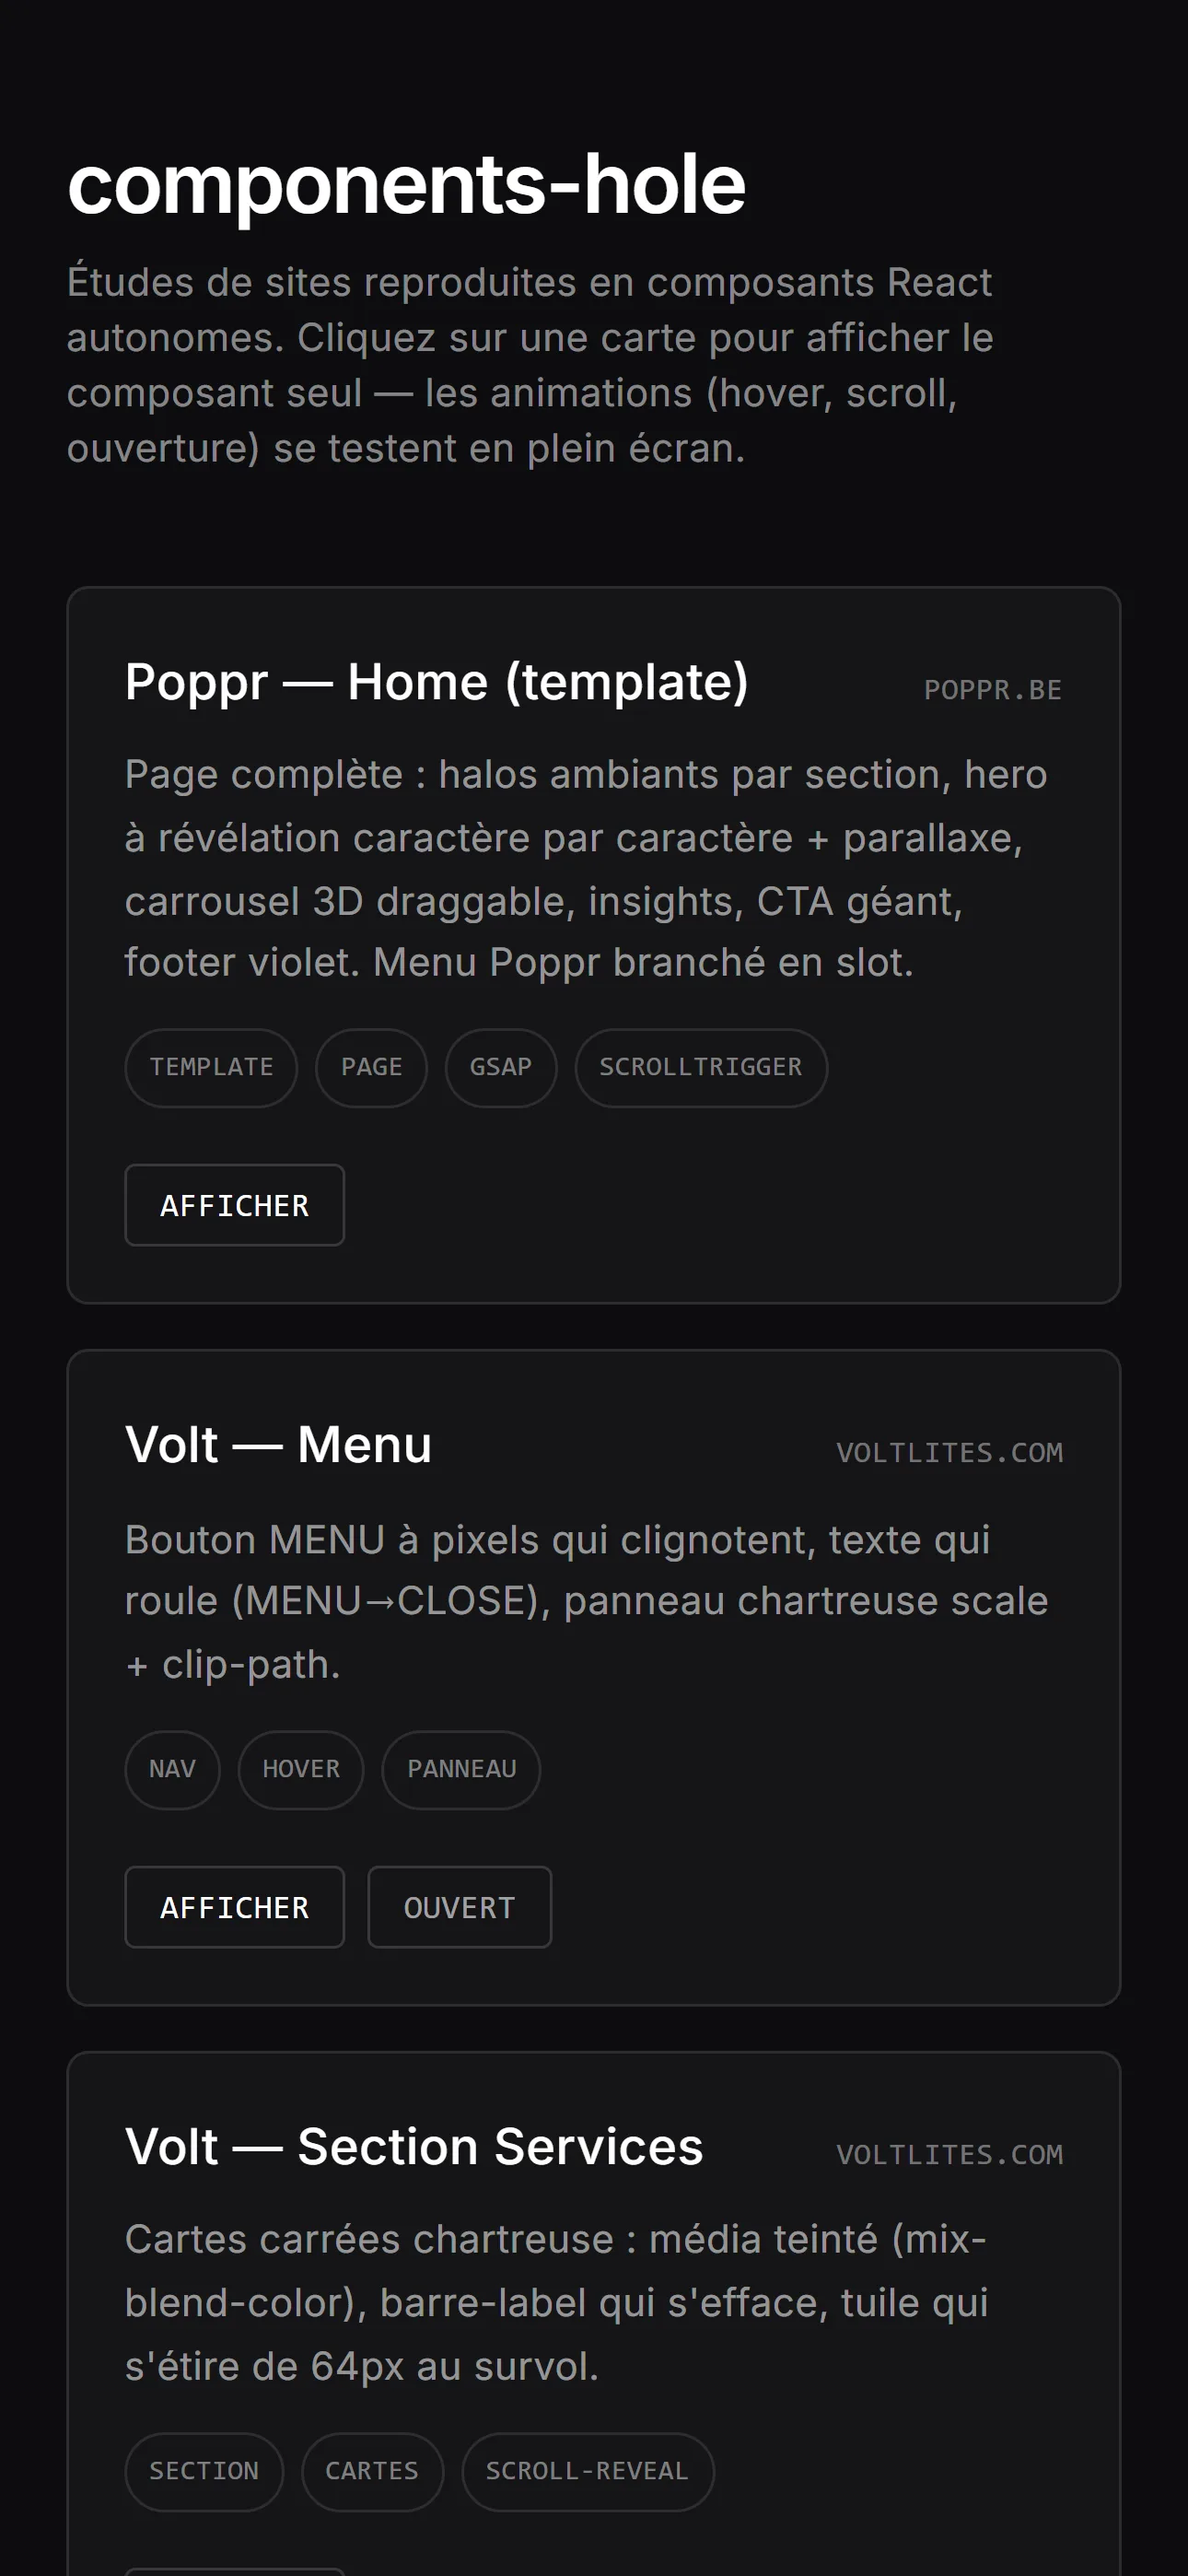
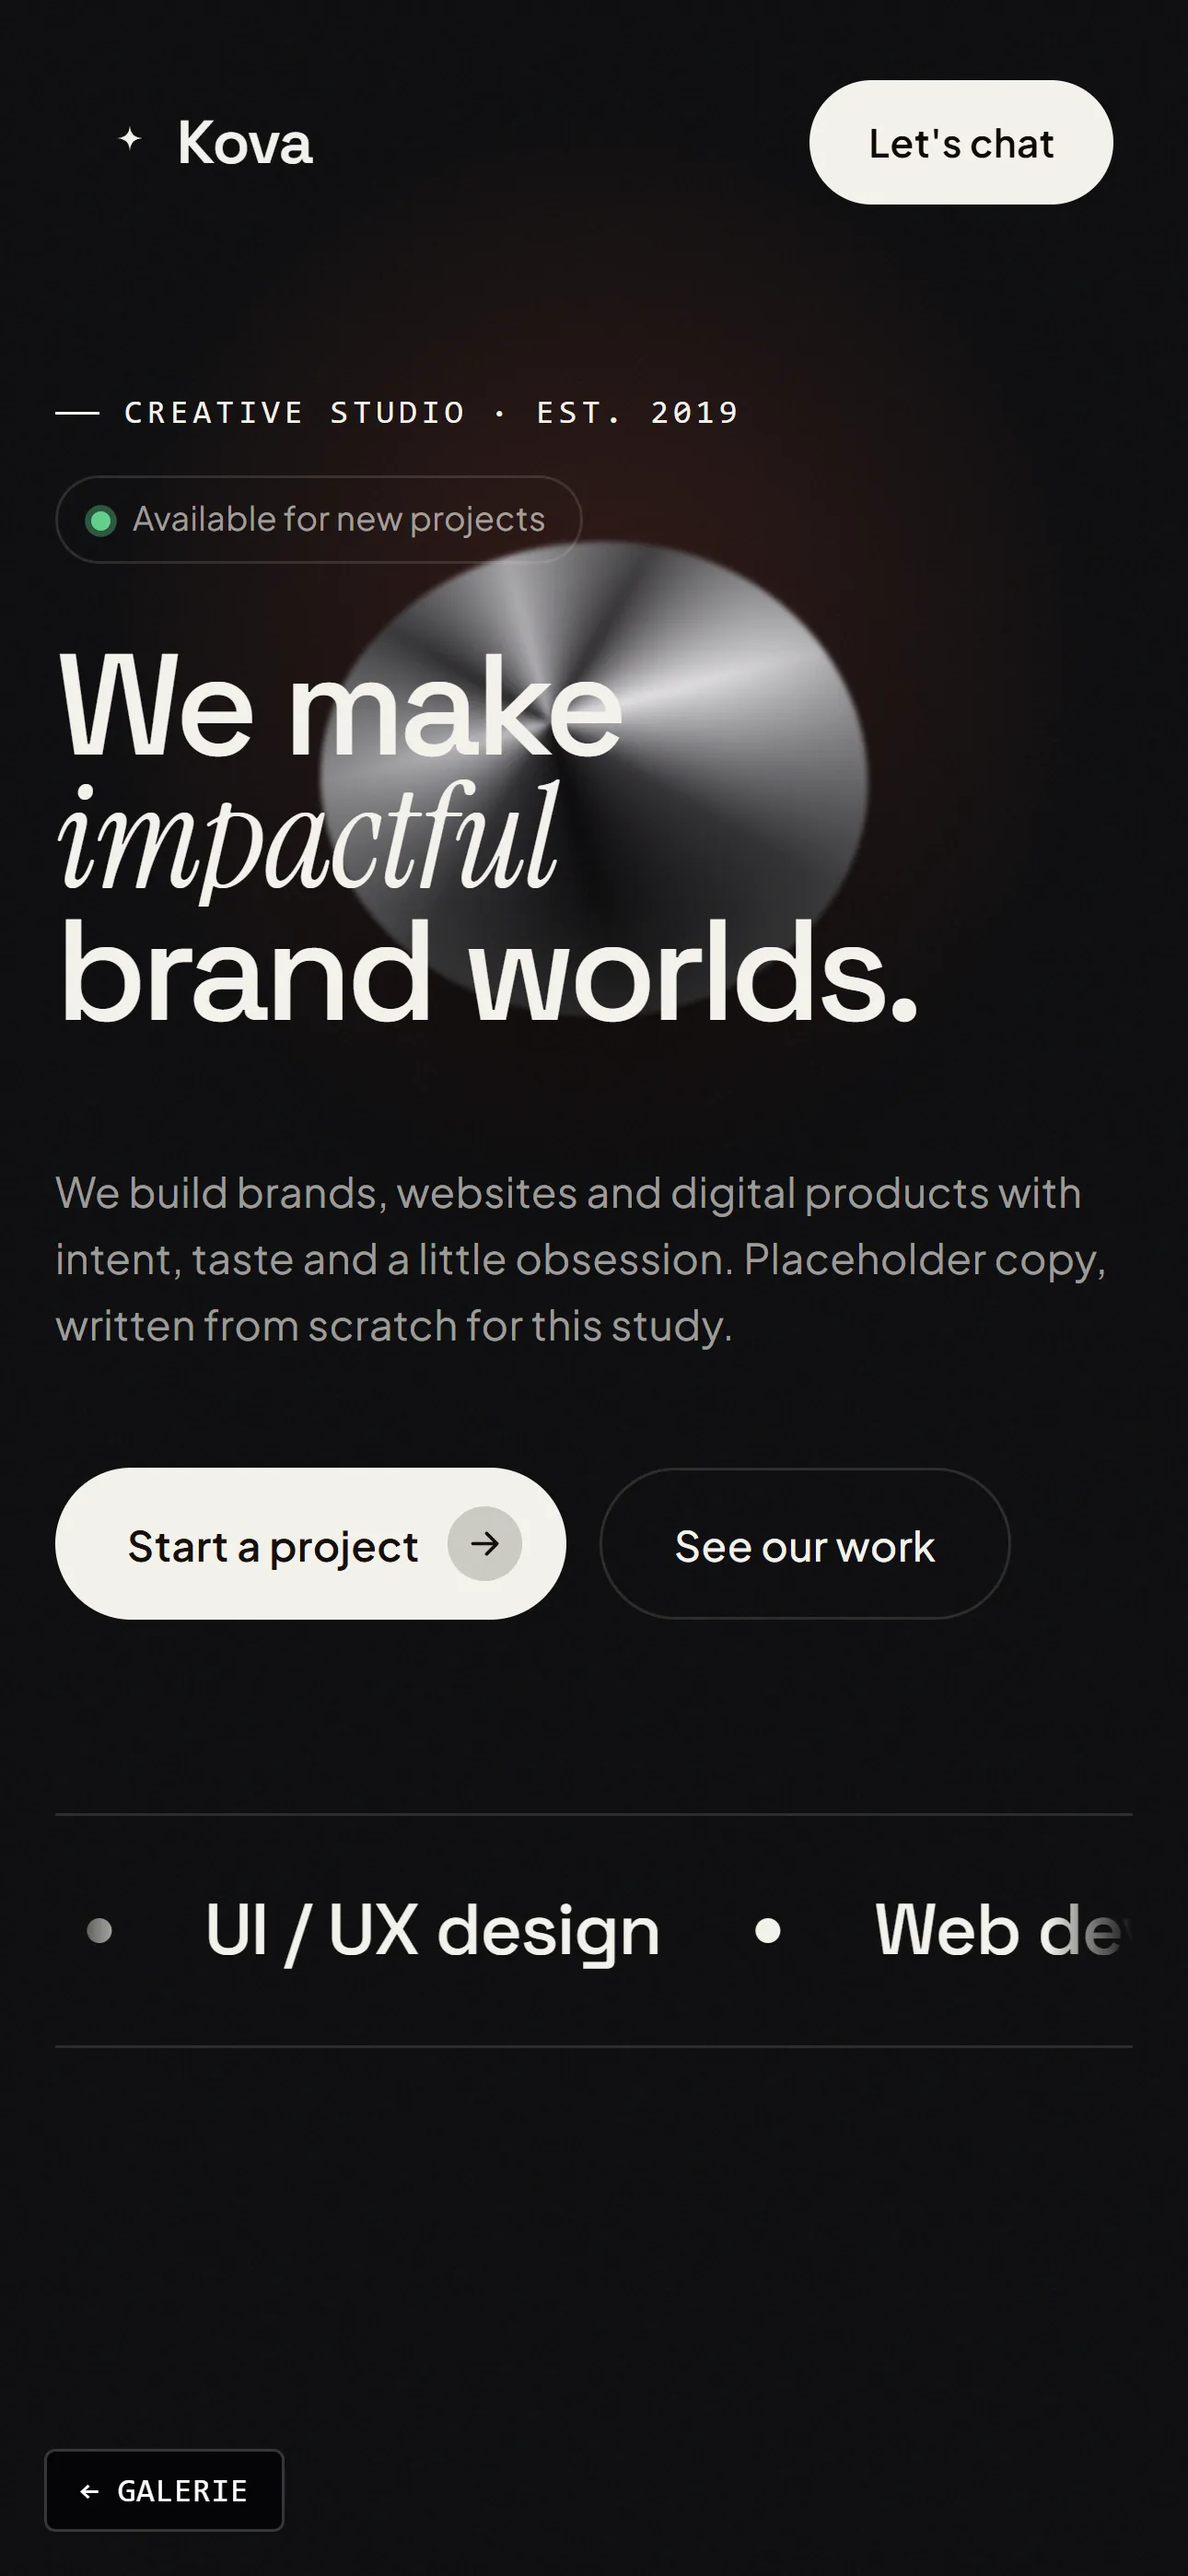
feat(projets): liens seulement pour Efreeshop et MEDICASTOCK, components-hole montré en entier
- 16 captures de components-hole (galerie, 12 templates, composants) tirées du dossier local
- description : plus de 300 composants et 12 templates

diff --git a/src/data/projects.ts b/src/data/projects.ts
@@ -1,7 +1,22 @@
 import columinstBoard from '@/assets/projects/columinst/board.webp'
 import columinstCover from '@/assets/projects/columinst/cover-portrait.webp'
 import componentsHoleCover from '@/assets/projects/components-hole/cover-portrait.webp'
+import componentsHoleAgenciy from '@/assets/projects/components-hole/agenciy-home.webp'
+import componentsHoleDetroit from '@/assets/projects/components-hole/detroit-home.webp'
 import componentsHoleGallery from '@/assets/projects/components-hole/gallery.webp'
+import componentsHoleGrainient from '@/assets/projects/components-hole/grainient-home.webp'
+import componentsHoleHanzo from '@/assets/projects/components-hole/hanzo-home.webp'
+import componentsHoleIncredibles from '@/assets/projects/components-hole/incredibles-home.webp'
+import componentsHoleIntelli from '@/assets/projects/components-hole/intelli-home.webp'
+import componentsHoleMacbookScroll from '@/assets/projects/components-hole/macbook-scroll.webp'
+import componentsHoleNormalboring from '@/assets/projects/components-hole/normalboring-home.webp'
+import componentsHoleNovaApp from '@/assets/projects/components-hole/nova-app.webp'
+import componentsHoleOversizedTitle from '@/assets/projects/components-hole/oversized-title.webp'
+import componentsHolePoppr from '@/assets/projects/components-hole/poppr-home.webp'
+import componentsHolePortfolite from '@/assets/projects/components-hole/portfolite-home.webp'
+import componentsHoleStackgrid from '@/assets/projects/components-hole/stackgrid-home.webp'
+import componentsHoleVerseo from '@/assets/projects/components-hole/verseo-home.webp'
+import componentsHoleVoltMenu from '@/assets/projects/components-hole/volt-menu.webp'
 import efreeshopComponents from '@/assets/projects/efreeshop/components.webp'
 import efreeshopHero from '@/assets/projects/efreeshop/hero.webp'
 import efreeshopCoverLandscape from '@/assets/projects/efreeshop/cover-landscape.webp'
@@ -193,18 +208,14 @@ export type ShowcaseProject = {
   stack: string[]
   description: string
   year: string
-  // Absent pour un repo privé sans version en ligne : rien à ouvrir pour le visiteur.
+  // Seulement pour les projets que le visiteur peut ouvrir (Efreeshop, MEDICASTOCK).
   link?: { label: string; href: string }
   cover: { portrait: string; landscape: string; alt: string }
   shots: ShowcaseShot[]
 }
 
 const EFREESHOP_URL = 'https://www.e-freeshop.com'
-const ETUDOCS_URL = 'https://github.com/thelord00229/ETUDOCS'
-const PORTFOLIO_URL = 'https://github.com/Ikhlas187/Ikhlas-Portfolio'
 const MEDICASTOCK_URL = 'https://medicastock-react.vercel.app'
-const GITHUB_USER_URL = 'https://github-user-red.vercel.app'
-const COMPONENTS_HOLE_URL = 'https://my-project-pied-xi.vercel.app'
 
 const STACKS = {
   efreeshop: ['Next.js', 'React', 'TypeScript', 'Tailwind CSS', 'Drizzle ORM', 'PostgreSQL (Neon)', 'NextAuth', 'FedaPay', 'GSAP'],
@@ -246,7 +257,6 @@ export const SHOWCASE_PROJECTS: Localized<ShowcaseProject[]> = {
       description:
         'Built at the HACKBYIFRI 2026 hackathon: students request their administrative documents online, follow each validation step in real time, and download authentic documents checked by QR code.',
       year: '2026',
-      link: { label: 'See the code on GitHub', href: ETUDOCS_URL },
       cover: { portrait: etudocsCover, landscape: etudocsCover, alt: '2 graduating students in cap and gown' },
       shots: [
         { src: etudocsHero, alt: 'EtuDocs home page with a preview of the student dashboard' },
@@ -264,7 +274,6 @@ export const SHOWCASE_PROJECTS: Localized<ShowcaseProject[]> = {
       description:
         'This site: a giant hero, an interactive fake macOS that runs my projects in WebAssembly, scroll animations and a note board shared between visitors.',
       year: '2026',
-      link: { label: 'See the code on GitHub', href: PORTFOLIO_URL },
       cover: { portrait: portfolioCover, landscape: portfolioHero, alt: 'Portfolio home page on mobile with the Ikhlas Agbeti name' },
       shots: [{ src: portfolioHero, alt: 'Portfolio home page with the Ikhlas A. name' }],
     },
@@ -292,7 +301,6 @@ export const SHOWCASE_PROJECTS: Localized<ShowcaseProject[]> = {
       stack: STACKS.githubUser,
       description: 'Search any GitHub user and see their profile and repositories in seconds, straight from the GitHub API.',
       year: '2026',
-      link: { label: 'Visit the site', href: GITHUB_USER_URL },
       cover: { portrait: githubUserCover, landscape: githubUserHero, alt: 'github-user home page on mobile: discover GitHub profiles and repos' },
       shots: [
         { src: githubUserHero, alt: 'github-user home page: discover GitHub profiles and repos' },
@@ -306,11 +314,27 @@ export const SHOWCASE_PROJECTS: Localized<ShowcaseProject[]> = {
       services: ['Component library', 'Creative development'],
       stack: STACKS.componentsHole,
       description:
-        'Website studies rebuilt as standalone React components: menus, hero sections, carousels and scroll animations, each one testable full screen.',
+        'My library of more than 300 React components rebuilt from website studies, and 12 full templates (studios, AI agencies, SaaS, finance app, portfolios): menus, heros, carousels, cursors, footers and scroll animations, each one testable full screen.',
       year: '2026',
-      link: { label: 'Visit the site', href: COMPONENTS_HOLE_URL },
-      cover: { portrait: componentsHoleCover, landscape: componentsHoleGallery, alt: 'components-hole gallery on mobile' },
-      shots: [{ src: componentsHoleGallery, alt: 'Gallery of website studies rebuilt as React components' }],
+      cover: { portrait: componentsHoleCover, landscape: componentsHoleGallery, alt: 'components-hole: Agenciy template on mobile' },
+      shots: [
+        { src: componentsHoleGallery, alt: 'Gallery of the components, each one opens full screen' },
+        { src: componentsHoleAgenciy, alt: 'Agenciy template: creative studio home page' },
+        { src: componentsHoleHanzo, alt: 'Hanzo template: design subscription for startups' },
+        { src: componentsHolePoppr, alt: 'Poppr template: immersive studio home page' },
+        { src: componentsHoleDetroit, alt: 'Detroit template: giant typographic hero' },
+        { src: componentsHoleIntelli, alt: 'Intelli template: AI automation agency' },
+        { src: componentsHoleGrainient, alt: 'Grainient template: grainy gradients marketplace' },
+        { src: componentsHoleIncredibles, alt: 'Incredibles template: student documents platform' },
+        { src: componentsHoleNormalboring, alt: 'Normal is Boring template: horizontal rail' },
+        { src: componentsHoleNovaApp, alt: 'Nova template: finance app landing page' },
+        { src: componentsHolePortfolite, alt: 'Portfolite template: designer portfolio' },
+        { src: componentsHoleStackgrid, alt: 'Stackgrid template: AI agency' },
+        { src: componentsHoleVerseo, alt: 'Verseo template: AI writing SaaS landing page' },
+        { src: componentsHoleVoltMenu, alt: 'Volt menu open: chartreuse panel' },
+        { src: componentsHoleMacbookScroll, alt: 'Macbook Scroll: a MacBook that opens on scroll' },
+        { src: componentsHoleOversizedTitle, alt: 'Oversized chapter title' },
+      ],
     },
     {
       slug: 'medipass',
@@ -365,7 +389,6 @@ export const SHOWCASE_PROJECTS: Localized<ShowcaseProject[]> = {
       description:
         'Réalisé au hackathon HACKBYIFRI 2026 : les étudiants demandent leurs documents administratifs en ligne, suivent chaque étape de validation en temps réel et téléchargent des documents authentifiés par QR code.',
       year: '2026',
-      link: { label: 'Voir le code sur GitHub', href: ETUDOCS_URL },
       cover: { portrait: etudocsCover, landscape: etudocsCover, alt: '2 étudiants diplômés en toge et toque' },
       shots: [
         { src: etudocsHero, alt: 'Accueil d’EtuDocs avec un aperçu du tableau de bord étudiant' },
@@ -383,7 +406,6 @@ export const SHOWCASE_PROJECTS: Localized<ShowcaseProject[]> = {
       description:
         'Ce site : un hero géant, un faux macOS interactif qui fait tourner mes projets en WebAssembly, des animations au défilement et un tableau de notes partagé entre les visiteurs.',
       year: '2026',
-      link: { label: 'Voir le code sur GitHub', href: PORTFOLIO_URL },
       cover: { portrait: portfolioCover, landscape: portfolioHero, alt: 'Accueil du portfolio sur mobile avec le nom Ikhlas Agbeti' },
       shots: [{ src: portfolioHero, alt: 'Accueil du portfolio avec le nom Ikhlas A.' }],
     },
@@ -411,7 +433,6 @@ export const SHOWCASE_PROJECTS: Localized<ShowcaseProject[]> = {
       stack: STACKS.githubUser,
       description: 'Recherche n’importe quel utilisateur GitHub et affiche son profil et ses repos en quelques secondes, directement depuis l’API de GitHub.',
       year: '2026',
-      link: { label: 'Voir le site', href: GITHUB_USER_URL },
       cover: { portrait: githubUserCover, landscape: githubUserHero, alt: 'Accueil de github-user sur mobile : découvrir profils et repos GitHub' },
       shots: [
         { src: githubUserHero, alt: 'Accueil de github-user : découvrir profils et repos GitHub' },
@@ -425,11 +446,27 @@ export const SHOWCASE_PROJECTS: Localized<ShowcaseProject[]> = {
       services: ['Bibliothèque de composants', 'Développement créatif'],
       stack: STACKS.componentsHole,
       description:
-        'Études de sites refaites en composants React autonomes : menus, heros, carrousels et animations au défilement, chacun testable en plein écran.',
+        'Ma bibliothèque de plus de 300 composants React refaits à partir d’études de sites, et 12 templates complets (studios, agences IA, SaaS, app de finance, portfolios) : menus, heros, carrousels, curseurs, footers et animations au défilement, chacun testable en plein écran.',
       year: '2026',
-      link: { label: 'Voir le site', href: COMPONENTS_HOLE_URL },
-      cover: { portrait: componentsHoleCover, landscape: componentsHoleGallery, alt: 'Galerie de components-hole sur mobile' },
-      shots: [{ src: componentsHoleGallery, alt: 'Galerie d’études de sites refaites en composants React' }],
+      cover: { portrait: componentsHoleCover, landscape: componentsHoleGallery, alt: 'components-hole : template Agenciy sur mobile' },
+      shots: [
+        { src: componentsHoleGallery, alt: 'Galerie des composants, chacun s’ouvre en plein écran' },
+        { src: componentsHoleAgenciy, alt: 'Template Agenciy : accueil d’un studio créatif' },
+        { src: componentsHoleHanzo, alt: 'Template Hanzo : abonnement design pour startups' },
+        { src: componentsHolePoppr, alt: 'Template Poppr : accueil immersif d’un studio' },
+        { src: componentsHoleDetroit, alt: 'Template Detroit : hero typographique géant' },
+        { src: componentsHoleIntelli, alt: 'Template Intelli : agence d’automatisation IA' },
+        { src: componentsHoleGrainient, alt: 'Template Grainient : marketplace de dégradés grainés' },
+        { src: componentsHoleIncredibles, alt: 'Template Incredibles : plateforme de documents étudiants' },
+        { src: componentsHoleNormalboring, alt: 'Template Normal is Boring : rail horizontal' },
+        { src: componentsHoleNovaApp, alt: 'Template Nova : landing d’une app de finance' },
+        { src: componentsHolePortfolite, alt: 'Template Portfolite : portfolio de designer' },
+        { src: componentsHoleStackgrid, alt: 'Template Stackgrid : agence IA' },
+        { src: componentsHoleVerseo, alt: 'Template Verseo : landing d’un SaaS d’écriture IA' },
+        { src: componentsHoleVoltMenu, alt: 'Menu Volt ouvert : panneau chartreuse' },
+        { src: componentsHoleMacbookScroll, alt: 'Macbook Scroll : un MacBook qui s’ouvre au défilement' },
+        { src: componentsHoleOversizedTitle, alt: 'Titre de chapitre géant' },
+      ],
     },
     {
       slug: 'medipass',
